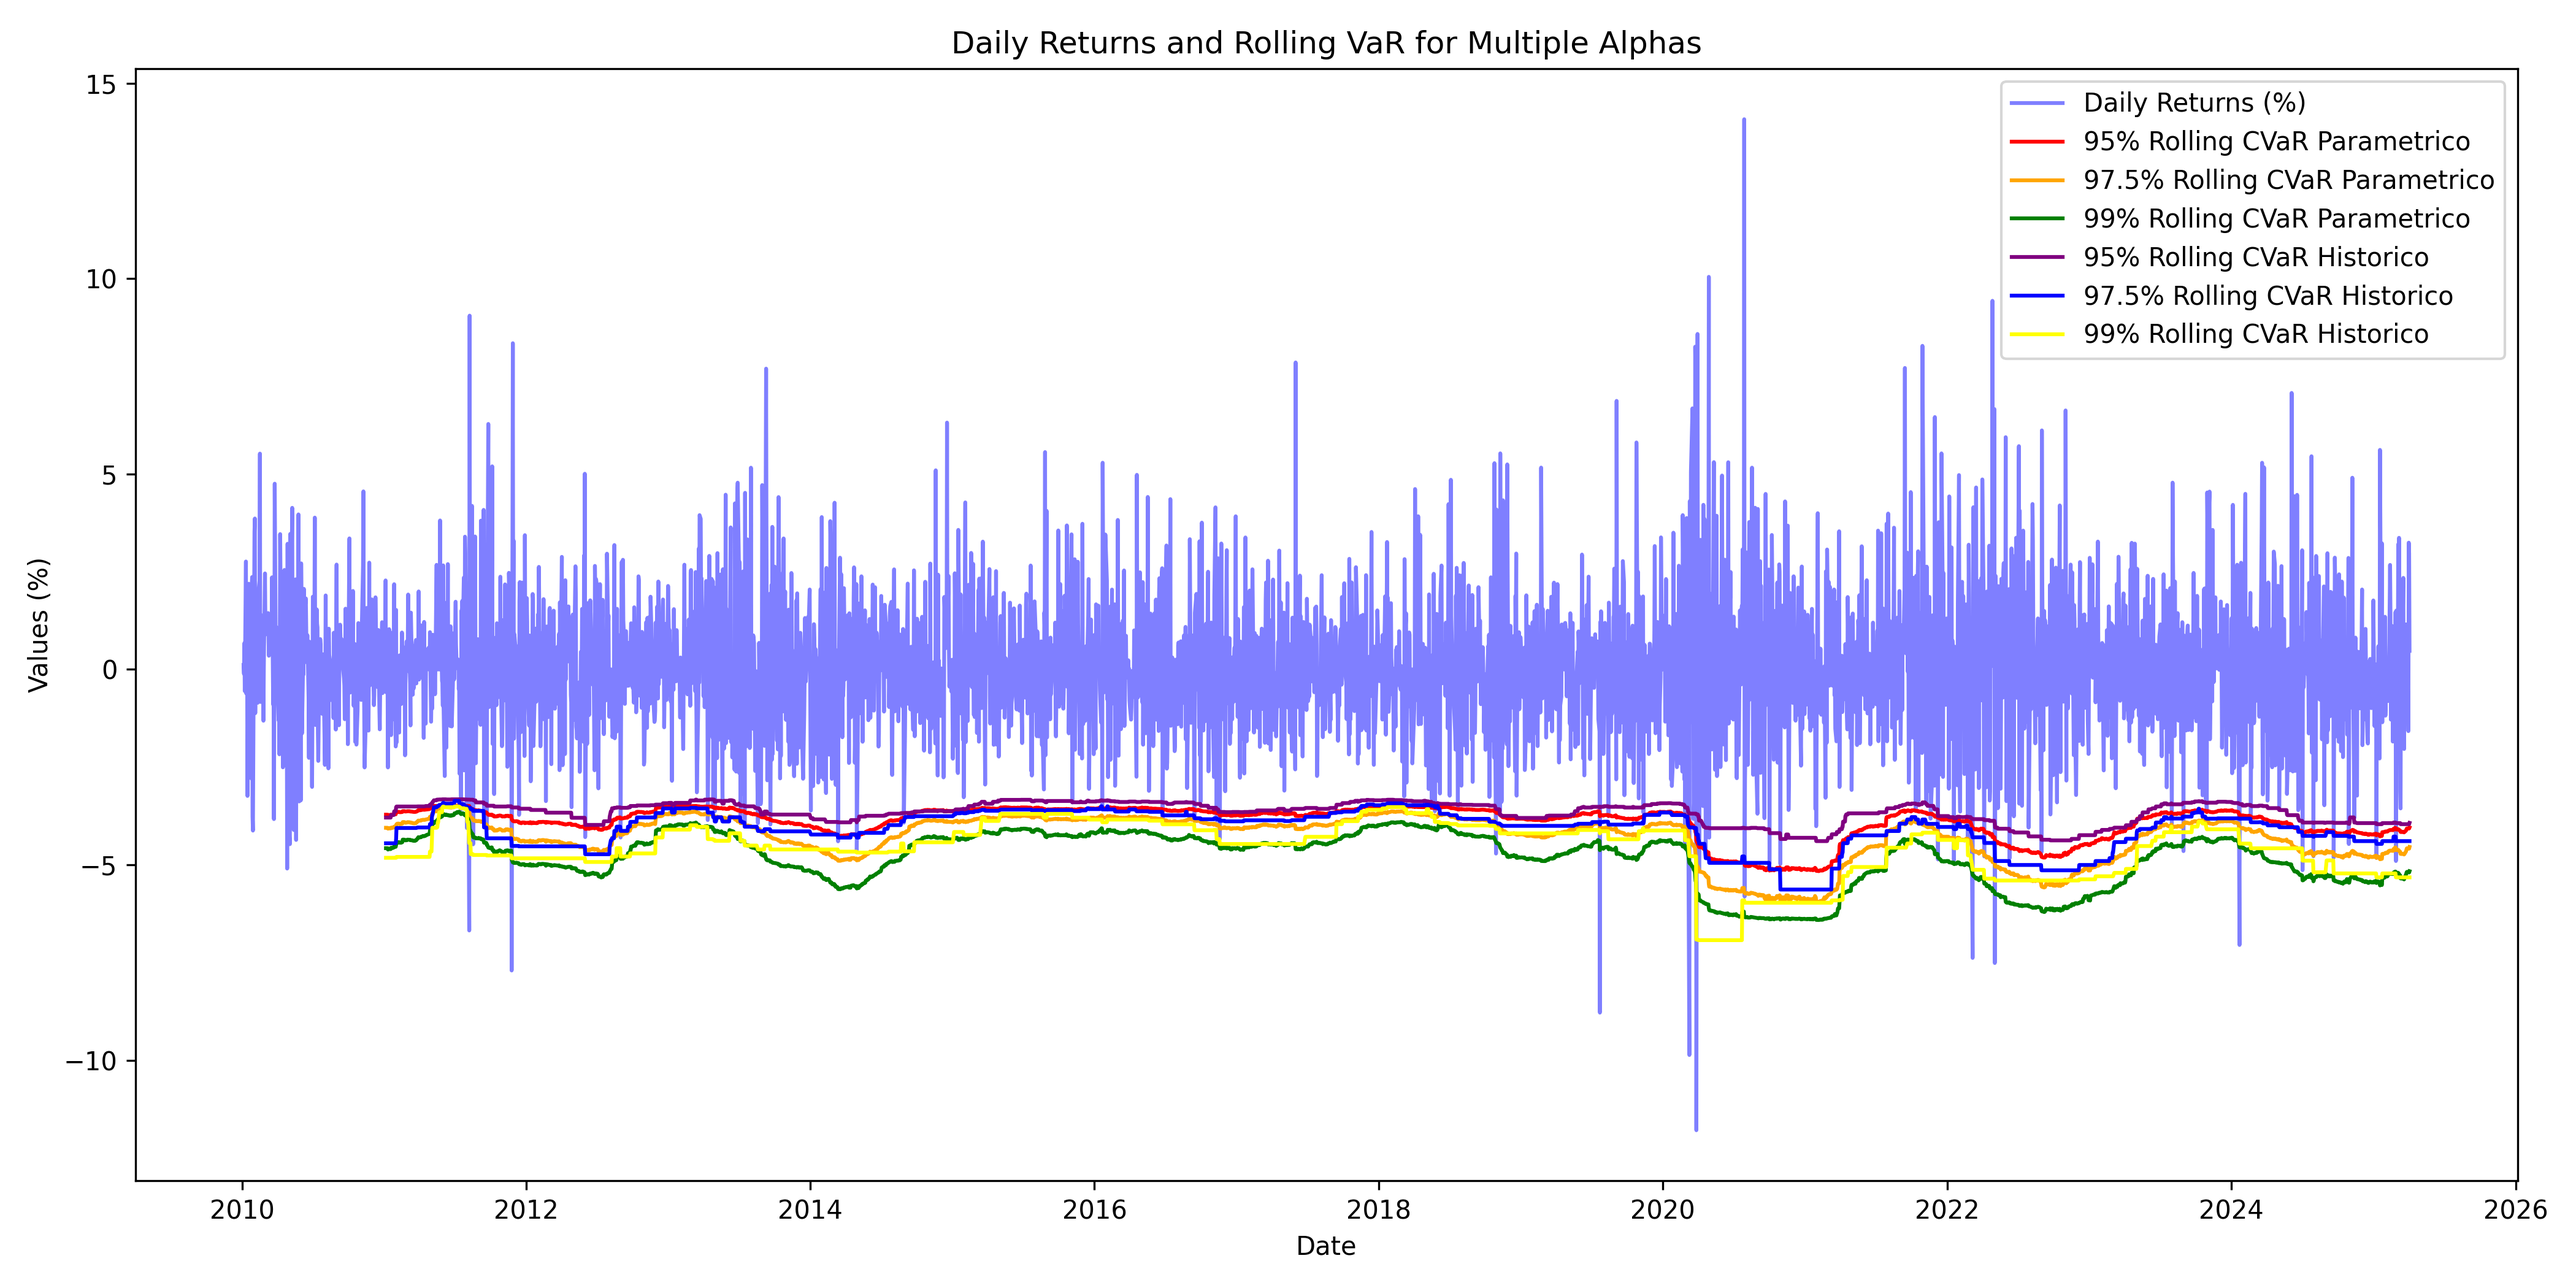
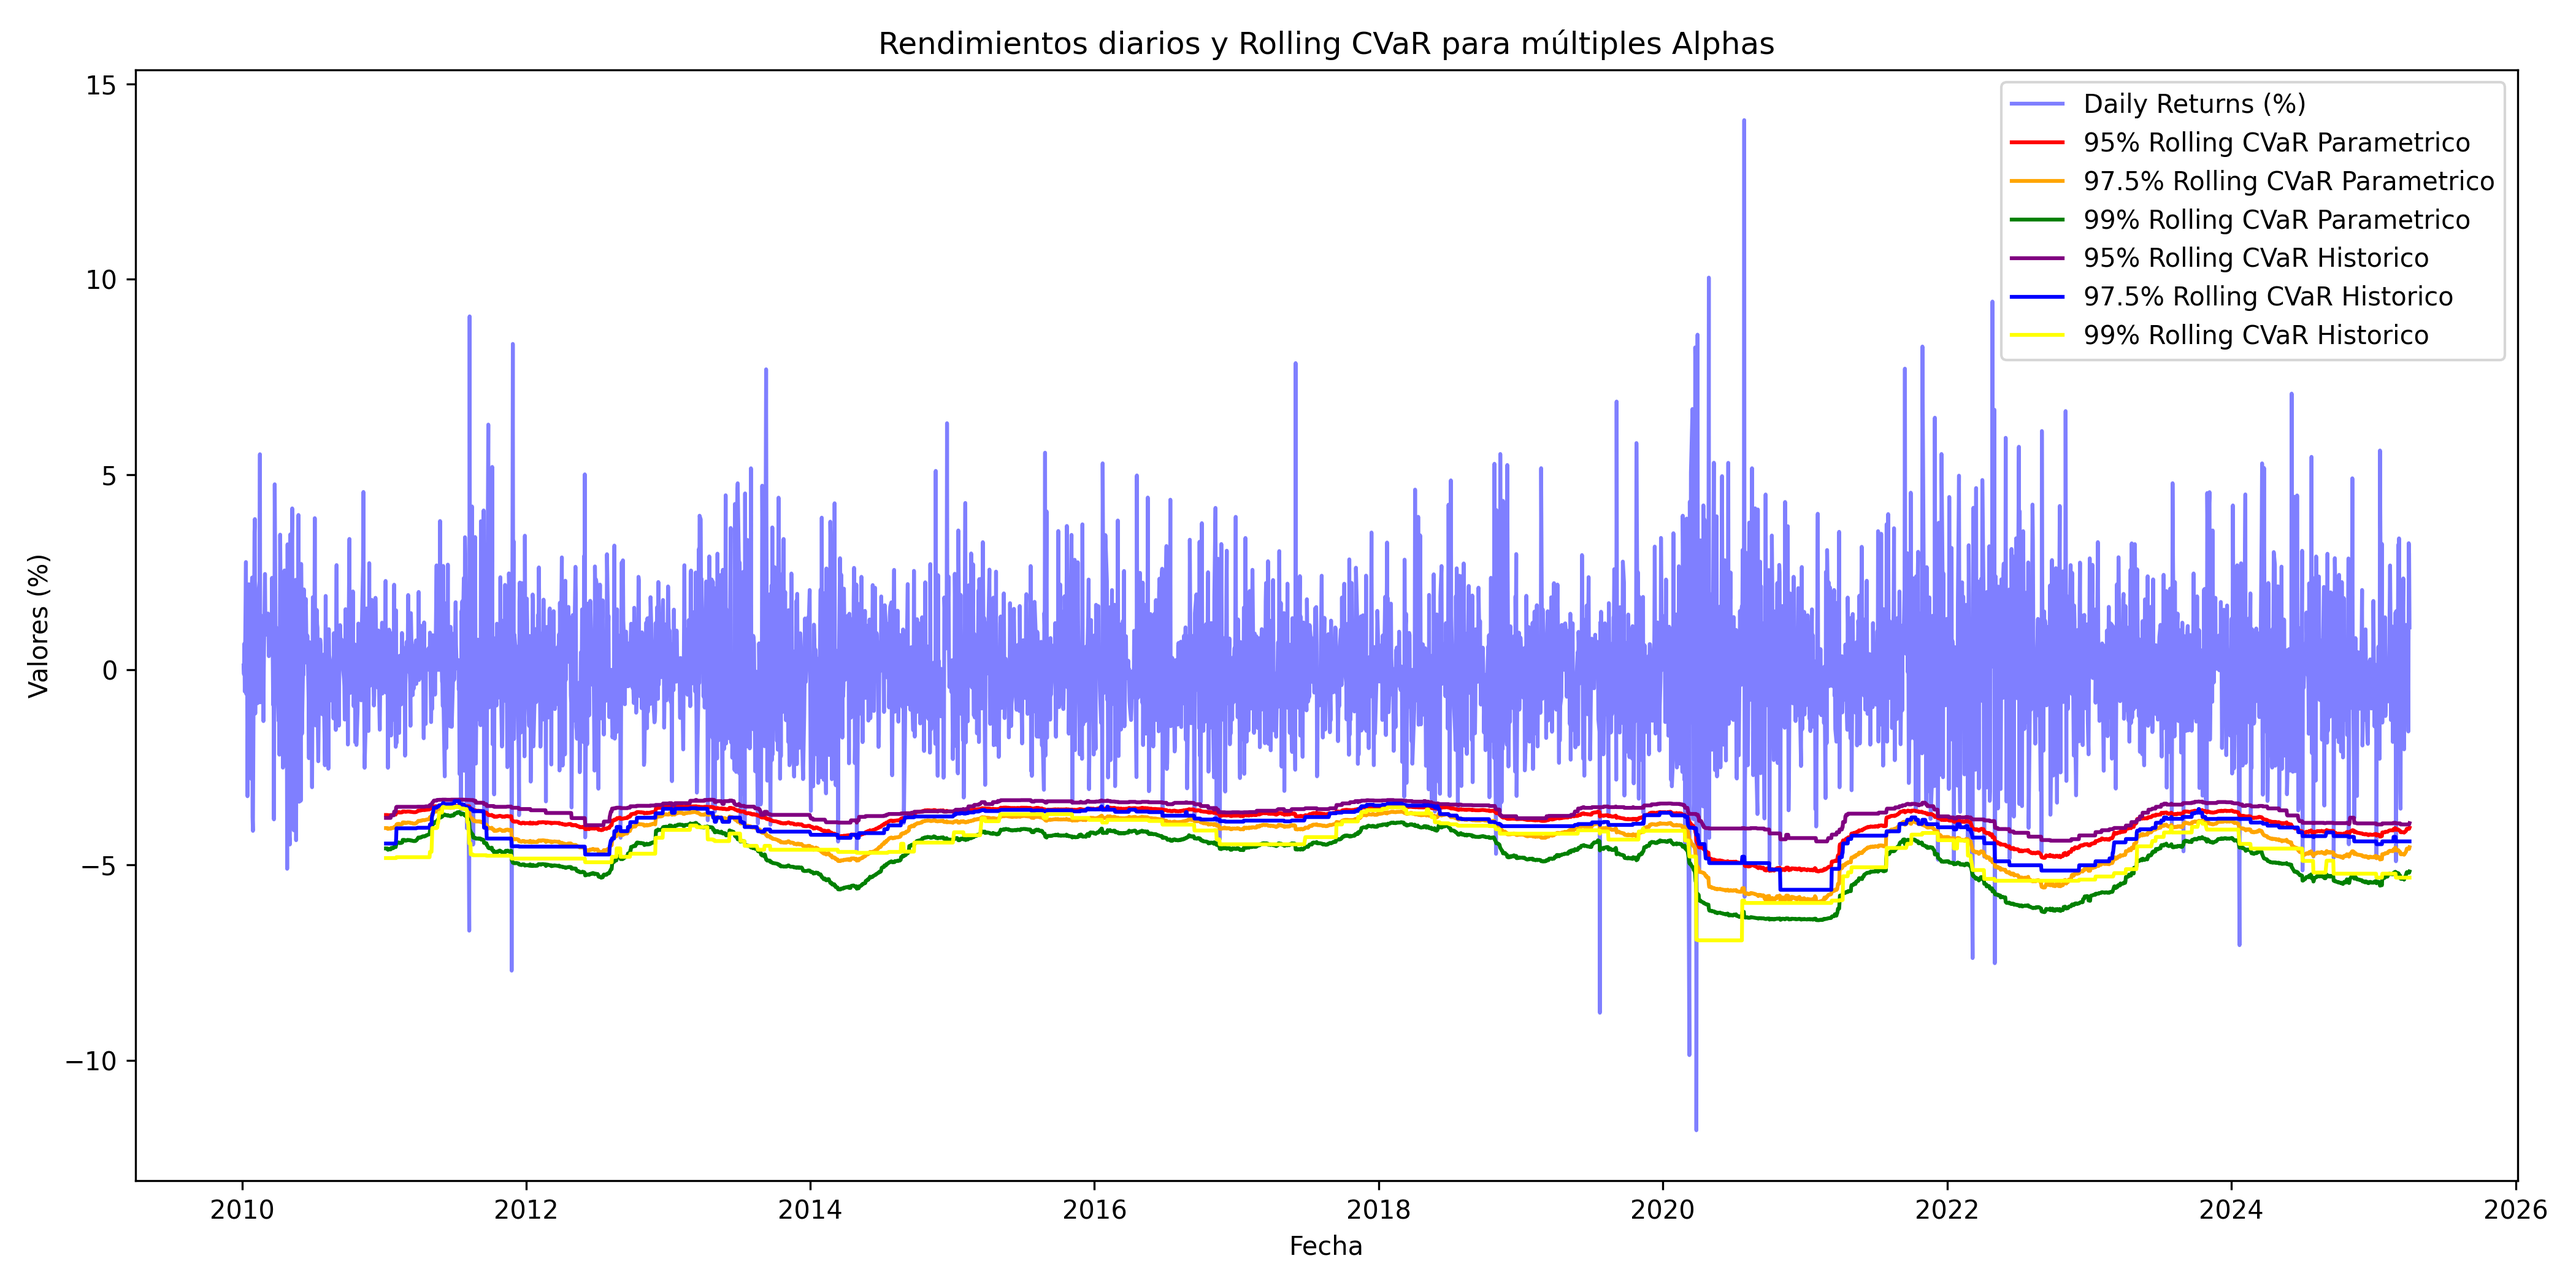
ok

diff --git a/Proyecto.py b/Proyecto.py
@@ -16,6 +16,12 @@ with col2:
     url_imagen = "https://media.licdn.com/dms/image/v2/C4E12AQFukyhc9QjjBA/article-cover_image-shrink_720_1280/article-cover_image-shrink_720_1280/0/1623952516208?e=2147483647&v=beta&t=PdCxO5tMQqPIvdbKgtv3VUEINbyXujyEcjF9UTSHRZE"
     st.image(url_imagen, width=200)
 
+
+st.text(' Grupo Bimbo es una de las empresas de panificación más grandes del mundo, con presencia en más de 30 países y una amplia cartera de marcas reconocidas. Fundada en 1945 en México, ha logrado consolidarse como un líder global en la industria de alimentos.')
+
+st.text('Históricamente, Bimbo ha sido una empresa resiliente, con un modelo de negocio sólido basado en la innovación y la eficiencia operativa. Sin embargo, su desempeño bursátil refleja la volatilidad del mercado y los desafíos del sector de consumo masivo.')
+
+
 # Descargar datos históricos de BIMBOA.MX
 df_bimbo_precios = MCF.obtener_datos("BIMBOA.MX")
 df_bimbo_rend = MCF.calcular_rendimientos(df_bimbo_precios)
@@ -51,6 +57,9 @@ elif metrica_seleccionada == "Sesgo":
 elif metrica_seleccionada == "Desviación estándar":
     st.metric("Desviación estándar",f"{stdv:.4}")
 
+
+st.text("El VaR (Value at Risk) y el CVaR (Conditional Value at Risk) son medidas de riesgo financiero que estiman la posible pérdida máxima y la pérdida esperada en escenarios extremos, respectivamente, para un nivel de confianza específico.")
+st.text("El VaR puede calcularse mediante tres enfoques principales: el paramétrico, que asume una distribución conocida como la normal o t-Student; el histórico, que utiliza datos pasados para calcular el percentil de pérdida; y Monte Carlo, que genera simulaciones aleatorias para modelar riesgos complejos. La diferencia radica en la flexibilidad y precisión; mientras que el método paramétrico es rápido pero dependiente de supuestos, el histórico refleja directamente los datos pasados y Monte Carlo permite adaptarse a distribuciones más complejas pero requiere mayor capacidad computacional.")
 
 alphas = [0.95, 0.975, 0.99]
 
@@ -121,6 +130,7 @@ for alpha, valores in VaR_MonteCarlo.items():
     CVaR_Monte_Carlo[alpha] = {"CVaR normal":CVaR_MC_n, "CVaR t-student":CVaR_MC_t}
     print(f"Alpha: {alpha} | CVaR Normal: {CVaR_MC_n:.6f} | CVaR t-Student: {CVaR_MC_t:.6f}")
 
+st.text("Se pueden calcular VaR y CVaR para distribuciones normales y t-Student porque estas distribuciones modelan diferentes escenarios de riesgo: la normal es útil para datos simétricos, mientras que la t-Student captura mejor eventos extremos debido a sus colas más largas.")
 
 aproximaciones=['Paramétrico','Histórico','Monte Carlo']
 medidas = ['Value-At-Risk (VaR)','Expected Shortfall (CVaR)']
@@ -149,49 +159,55 @@ rolling_mean = df_bimbo_rend.rolling(window=252).mean()
 rolling_std = df_bimbo_rend.rolling(window=252).std()
 rolling_df = df_bimbo_rend.rolling(window=252)
 
-#VaR parametrico rolling window
+
+print(df_bimbo_rend)
+   #print(rolling_df)
+
+#VaR parametrico para el Rolling Window
 VaR_roll_p = {}
 for a in alphas:
     VaR_roll_pn = MCF.VaR_rolling_p(a, rolling_mean, rolling_std)
     VaR_roll_p [a] = {"VaR Parametrico Rolling":VaR_roll_pn}
 
-#VaR historico rolling window
-VaR_roll_h = {}
-for a in alphas:
-    VaR_roll_hn  = MCF.VaR_rolling_his(rolling_df,a)
-    VaR_roll_h [a] = {"VaR Historico Rolling":VaR_roll_hn}
-
-
-# Crear un DataFrame para el VaR Paramétrico
+#Crear un DataFrame para el VaR Paramétrico
 resultados = {}
 for alpha, valores in VaR_roll_p.items():
     resultados[alpha] = valores["VaR Parametrico Rolling"].squeeze()
 parametrico_df = pd.DataFrame(resultados, index=df_bimbo_rend.index)
-
-    #Agregar fechas al DF
+print(parametrico_df)
+#Agregar fechas al DF
 fechas = df_bimbo_rend.index  
 var_dataframe = pd.DataFrame(resultados, index=fechas)
-
 var_dataframe.columns = [f"{alpha} VaR P Rolling" for alpha in var_dataframe.columns]
 print(var_dataframe)
 
-#CVaR
-CVaR_df_p = parametrico_df.applymap(lambda x: MCF.CVaR_rolling(parametrico_df, x))
+
+
+#VaR historico para el Rolling Window
+VaR_roll_h = {}
+for a in alphas:
+    VaR_roll_hn  = MCF.VaR_rolling_his(rolling_df,a)
+    VaR_roll_h [a] = {"VaR Historico Rolling":VaR_roll_hn}
 
 # Crear un DataFrame para el VaR Histórico
 historico_resultados = {}
 for alpha, valores in VaR_roll_h.items():
     historico_resultados[alpha] = valores["VaR Historico Rolling"].squeeze()
 historico_df = pd.DataFrame(historico_resultados, index=df_bimbo_rend.index)
-
-    #historico con fechas
+#historico con fechas
 fechas = df_bimbo_rend.index  
 VaR_h_df = pd.DataFrame(historico_resultados, index=fechas)
-
 VaR_h_df.columns = [f"{alpha} VaR H Rolling" for alpha in VaR_h_df.columns]
+print(VaR_h_df)
 
-#CVaR
+
+#CVaR parametrico para el rolling window
+CVaR_df_p = parametrico_df.applymap(lambda x: MCF.CVaR_rolling(parametrico_df, x))
+
+#CVaR historico para el rolling window
 CVaR_df_h = historico_df.applymap(lambda x: MCF.CVaR_rolling(historico_df, x))
+
+
 
 
 plt.figure(figsize=(14, 7))
@@ -208,12 +224,10 @@ plt.plot(VaR_h_df.index, VaR_h_df['0.95 VaR H Rolling'], label='95% Rolling VaR 
 plt.plot(VaR_h_df.index, VaR_h_df['0.975 VaR H Rolling'], label='97.5% Rolling VaR Historico', color='blue')
 plt.plot(VaR_h_df.index, VaR_h_df['0.99 VaR H Rolling'], label='99% Rolling VaR Historico', color='yellow')
 
-
-
 # Títulos 
-plt.title('Daily Returns and Rolling VaR for Multiple Alphas')
-plt.xlabel('Date')
-plt.ylabel('Values (%)')
+plt.title('Rendimientos diarios y Rolling VaR para múltiples Alphas')
+plt.xlabel('Fecha')
+plt.ylabel('Valores (%)')
 
 # Agregar la leyenda
 plt.legend()
@@ -222,13 +236,18 @@ plt.legend()
 plt.tight_layout()
 plt.savefig("VAR.png", dpi=300)  # Guarda la figura como archivo PNG
 
+
+
+
+
+
 #Graficar CVaR 
 plt.figure(figsize=(14, 7))
 
 # Graficar los rendimientos diarios
 plt.plot(df_bimbo_rend.index, df_bimbo_rend * 100, label='Daily Returns (%)', color='blue', alpha=0.5)
 
-# Graficar los VaR para cada alpha
+# Graficar los CVaR para cada alpha
 plt.plot(CVaR_df_p.index, CVaR_df_p[0.95], label='95% Rolling CVaR Parametrico', color='red')
 plt.plot(CVaR_df_p.index, CVaR_df_p[0.975], label='97.5% Rolling CVaR Parametrico', color='orange')
 plt.plot(CVaR_df_p.index, CVaR_df_p[0.99], label='99% Rolling CVaR Parametrico', color='green')
@@ -237,11 +256,10 @@ plt.plot(CVaR_df_h.index,CVaR_df_h[0.95], label='95% Rolling CVaR Historico', co
 plt.plot(CVaR_df_h.index,CVaR_df_h[0.975], label='97.5% Rolling CVaR Historico', color='blue')
 plt.plot(CVaR_df_h.index,CVaR_df_h[0.99], label='99% Rolling CVaR Historico', color='yellow')
 
-
 # Títulos 
-plt.title('Daily Returns and Rolling VaR for Multiple Alphas')
-plt.xlabel('Date')
-plt.ylabel('Values (%)')
+plt.title('Rendimientos diarios y Rolling CVaR para múltiples Alphas')
+plt.xlabel('Fecha')
+plt.ylabel('Valores (%)')
 
 # Agregar la leyenda
 plt.legend()
@@ -249,3 +267,74 @@ plt.legend()
 # Ajustar diseño y mostrar la gráfica
 plt.tight_layout()
 plt.savefig("CVAR.png", dpi=300)  # Guarda la figura como archivo PNG
+
+print(type(df_bimbo_rend))
+print(df_bimbo_rend.head())
+
+
+#Mostrar gráficas en streamlit
+st.image("VAR.png", caption="Value at Risk", use_container_width = True)
+st.image("CVAR.png", caption="Expected Shortfall", use_container_width = True)
+
+
+# e)
+resultados_v = []
+
+for a in alphas:
+    total_VaR_p, porc_VaR_p, total_CVaR_p, porc_CVaR_p, total_VaR_h, porc_VaR_h, total_CVaR_h, porc_CVaR_h = MCF.calcular_violaciones(df_bimbo_rend, 1-a)
+
+    resultados_v.append({
+    'Nivel Confianza': a,
+    'Total Violaciones VaR Paramétrico': total_VaR_p,
+    'Porcentaje Violaciones VaR Paramétrico': float(porc_VaR_p) if isinstance(porc_VaR_p, (pd.Series, pd.DataFrame)) else porc_VaR_p,
+    'Total Violaciones CVaR Paramétrico': total_CVaR_p,
+    'Porcentaje Violaciones CVaR Paramétrico': float(porc_CVaR_p) if isinstance(porc_CVaR_p, (pd.Series, pd.DataFrame)) else porc_CVaR_p,
+    'Total Violaciones VaR Histórico': total_VaR_h,
+    'Porcentaje Violaciones VaR Histórico': float(porc_VaR_h) if isinstance(porc_VaR_h, (pd.Series, pd.DataFrame)) else porc_VaR_h,
+    'Total Violaciones CVaR Histórico': total_CVaR_h,
+    'Porcentaje Violaciones CVaR Histórico': float(porc_CVaR_h) if isinstance(porc_CVaR_h, (pd.Series, pd.DataFrame)) else porc_CVaR_h
+})
+
+
+# Convertir la lista de diccionarios en un DataFrame
+df_resultados = pd.DataFrame(resultados_v)
+
+
+print(df_resultados)
+print(f"Total Violaciones VaR: {total_VaR_p}, Total Violaciones CVaR: {total_CVaR_p}")
+print(f"Porcentaje Violaciones VaR: {porc_VaR_p}")
+print(f"Porcentaje Violaciones CVaR: {porc_CVaR_p}")
+print(f"Total Violaciones   hVaR: {total_VaR_h}, Total Violaciones  hCVaR: {total_CVaR_h}")
+print(f"Porcentaje Violaciones  hVaR: {porc_VaR_h}")
+print(f"Porcentaje Violaciones  hCVaR: {porc_CVaR_h}")
+
+# e)
+
+VaR_movil = MCF.calcular_var_volatilidad_movil(df_bimbo_rend)
+print(VaR_movil)
+print(type(VaR_movil))
+
+#Graficar VaR móvil
+plt.figure(figsize=(14, 7))
+
+# Graficar los rendimientos diarios
+plt.plot(df_bimbo_rend.index, df_bimbo_rend * 100, label='Daily Returns (%)', color='blue', alpha=0.5)
+
+# Graficar los CVaR para cada alpha
+colors = ['darkred', 'maroon'] 
+for i, alpha in enumerate([0.05, 0.01]): 
+    plt.plot(VaR_movil.index, VaR_movil[f'VaR Vol Móvil ({alpha})'], label=f'VaR {int(alpha*100)}%', linestyle='--', color=colors[i]) 
+
+# Títulos 
+plt.title('Rendimientos diarios y VaR Móvil del 0.05 y 0.01')
+plt.xlabel('Fecha')
+plt.ylabel('Valores (%)')
+
+# Agregar la leyenda
+plt.legend()
+
+# Ajustar diseño y mostrar la gráfica
+plt.tight_layout()
+plt.savefig("VaRm.png", dpi=300)  # Guarda la figura como archivo PNG
+
+st.image("VARm.png", caption="Value at Risk Móvil", use_container_width = True)

diff --git a/Funciones_MCF.py b/Funciones_MCF.py
@@ -56,3 +56,49 @@ def CVaR_rolling (df, VaR):
     CVaR = np.mean(df[df <= VaR])
     CVaR_perc = round(CVaR,4)
     return CVaR_perc
+
+def calcular_violaciones(retornos, alpha, ventana=252):
+    violaciones_VaR_p = []
+    violaciones_CVaR_p = []
+    violaciones_VaR_h = []
+    violaciones_CVaR_h = []
+    
+    for i in range(ventana, len(retornos)):
+        datos_historicos = retornos[i-ventana:i]
+        media = datos_historicos.mean()
+        desv = datos_historicos.std()
+         #rolling_mean = df_bimbo_rend.rolling(window=252).mean()
+         #rolling_std = df_bimbo_rend.rolling(window=252).std()
+        
+        VaR_p = (VaR_rolling_p(alpha, media, desv))
+        CVaR_p = CVaR_rolling(datos_historicos, VaR_p)
+        VaR_h = (VaR_rolling_his(datos_historicos, alpha))
+        CVaR_h = CVaR_rolling(datos_historicos, VaR_h)
+
+        
+        violaciones_VaR_p.append(retornos.iloc[0] <(VaR_p/1000))
+        violaciones_CVaR_p.append(retornos.iloc[0] < CVaR_p)
+        violaciones_VaR_h.append(retornos.iloc[0] <(VaR_h/1000))
+        violaciones_CVaR_h.append(retornos.iloc[0] < CVaR_h)
+    
+    total_VaR_p = sum(violaciones_VaR_p)
+    total_CVaR_p = sum(violaciones_CVaR_p)
+    total_VaR_h = sum(violaciones_VaR_h)
+    total_CVaR_h = sum(violaciones_CVaR_h)
+    
+    porcentaje_VaR_p = (total_VaR_p / (len(retornos) - ventana))*100
+    porcentaje_CVaR_p= (total_CVaR_p / (len(retornos) - ventana))*100
+    porcentaje_VaR_h = (total_VaR_h / (len(retornos) - ventana))*100
+    porcentaje_CVaR_h= (total_CVaR_h / (len(retornos) - ventana))*100
+    
+    return total_VaR_p, porcentaje_VaR_p, total_CVaR_p, porcentaje_CVaR_p, total_VaR_h, porcentaje_VaR_h, total_CVaR_h, porcentaje_CVaR_h
+
+
+def calcular_var_volatilidad_movil(serie_rendimientos, alphas=[0.05, 0.01], window=252): 
+    # Calculamos volatilidad móvil 
+    std_roll = serie_rendimientos.rolling(window).std() 
+    resultados = pd.DataFrame(index=serie_rendimientos.index) 
+    for alpha in alphas: 
+        q_alpha = norm.ppf(alpha) 
+        resultados[f'VaR Vol Móvil ({alpha})'] = q_alpha * std_roll 
+    return resultados.dropna() 
